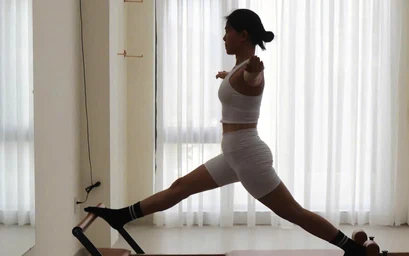
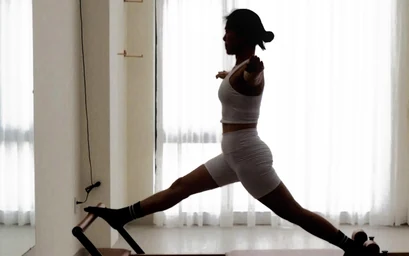
feat(photography): grade mới sau hai mươi vòng thử, và mép ảnh tan vào trang

diff --git a/src_FE/app/ui/art-directed-image.tsx b/src_FE/app/ui/art-directed-image.tsx
@@ -9,18 +9,45 @@ import { cn } from "~/lib/cn";
  * stock photography than empty, the layout was leaning on the picture, and the
  * design would have been wrong (docs/REFERENCE_LOCK.md).
  */
+
+/**
+ * PHƯƠNG ÁN A — "Ánh sáng": mép ảnh tan vào trang.
+ *
+ * Nền của những khung này gần như trắng, và nền trang là `#f2f0ea` — cũng gần
+ * trắng. Cho hai mép tan ra thì cái hộp chữ nhật biến mất: thanh Cadillac đi
+ * thẳng ra khỏi trang, và người đứng trong trang chứ không đứng trong một ô.
+ *
+ * Làm bằng `mask-image` chứ không nung vào tệp ảnh: mask tan về TRONG SUỐT nên
+ * đúng trên mọi nền — khối `tone="deep"` và khối `tone="ink"` dùng chung một
+ * tệp ảnh mà không lộ vệt màu. Nung vào ảnh thì phải có một tệp cho mỗi nền.
+ *
+ * Thủ pháp này chỉ dùng được vì ảnh ngược sáng. Đừng mang sang một khung có
+ * hậu cảnh tối — ở đó nó sẽ đọc ra như một lỗi hiển thị.
+ */
+const FADE_STYLE = {
+  maskImage:
+    "linear-gradient(to bottom, transparent 0%, #000 22%), linear-gradient(to left, transparent 0%, #000 18%)",
+  WebkitMaskImage:
+    "linear-gradient(to bottom, transparent 0%, #000 22%), linear-gradient(to left, transparent 0%, #000 18%)",
+  maskComposite: "intersect",
+  WebkitMaskComposite: "source-in",
+} as const;
+
 export function ArtDirectedImage({
   photo,
   className,
   imgClassName,
   sizes,
   priority = false,
+  fade = false,
 }: {
   photo: PhotoId;
   className?: string;
   imgClassName?: string;
   sizes?: string;
   priority?: boolean;
+  /** Tan mép trên và mép ngoài vào nền trang. Chỉ cho ảnh ngược sáng. */
+  fade?: boolean;
 }) {
   const brief = PHOTOGRAPHY[photo];
 
@@ -34,6 +61,7 @@ export function ArtDirectedImage({
         loading={priority ? "eager" : "lazy"}
         decoding="async"
         fetchPriority={priority ? "high" : "auto"}
+        style={fade ? FADE_STYLE : undefined}
         className={cn("size-full object-cover", imgClassName, className)}
       />
     );

diff --git a/src_FE/app/content/photography.ts b/src_FE/app/content/photography.ts
@@ -61,8 +61,8 @@ export const PHOTOGRAPHY = {
     // draws the frame, the figure hangs inside it, the curtain wall lights it
     // from behind. A hero needs a geometry — the previous frame (studio-08) was
     // a room inventory with no subject at all.
-    src: "/photos/hero-748.webp",
-    srcSet: "/photos/hero-374.webp 374w, /photos/hero-748.webp 748w",
+    src: "/photos/hero-643.webp",
+    srcSet: "/photos/hero-321.webp 321w, /photos/hero-643.webp 643w",
     alt: "Học viên treo người trên khung Cadillac, ngược sáng trước tường rèm voan.",
     aspect: "4 / 5",
     typeRegion: null,

diff --git a/src_FE/app/routes/public/home.tsx b/src_FE/app/routes/public/home.tsx
@@ -80,6 +80,7 @@ function Hero() {
               <ArtDirectedImage
                 photo="hero"
                 priority
+                fade
                 sizes="(min-width: 768px) 45vw, 100vw"
               />
             </div>

diff --git a/docs/thiet-ke/anh-studio/dung-anh.py b/docs/thiet-ke/anh-studio/dung-anh.py
@@ -27,11 +27,12 @@ from __future__ import annotations
 
 import argparse
 import os
+import re
 import sys
 
 try:
     import numpy as np
-    from PIL import Image, ImageEnhance
+    from PIL import Image, ImageFilter
 except ImportError:  # pragma: no cover
     sys.exit("Cần Pillow và numpy: python3 -m pip install pillow numpy")
 
@@ -51,33 +52,131 @@ def _img(a: np.ndarray) -> Image.Image:
     return Image.fromarray((np.clip(a, 0, 1) * 255 + 0.5).astype(np.uint8))
 
 
-def grade(im: Image.Image, *, wb=99.0, bp=0.5, floor=0.035, k=0.22, sat=0.96) -> Image.Image:
-    """Bốn bước, theo thứ tự này.
+def _lum(a: np.ndarray) -> np.ndarray:
+    return (a * np.array([0.2126, 0.7152, 0.0722])).sum(axis=2, keepdims=True)
 
-    1. Cân trắng theo rèm. Rèm voan ngược sáng là vật trắng duy nhất chắc chắn
-       có trong khung; ghim nó về trung tính là cách bỏ ám xanh lá mà không phải
-       đoán nhiệt độ màu.
-    2. Neo điểm đen. Ảnh gốc không có điểm đen — vùng tối dừng ở xám nhạt, nên
-       mặt nào cũng đục. `floor` > 0 để bóng vẫn mở: bết đen là kiểu "cinematic"
-       rẻ tiền, và nó giết luôn nếp rèm.
-    3. S-curve nhẹ quanh trung gian, không đụng hai đầu, nên highlight của rèm
-       không bị chặn thành mảng trắng phẳng.
-    4. Ngả bóng về sắc cát. Nền trang là #f2f0ea; ảnh lạnh hơn nền thì luôn
-       trông như dán vào chứ không thuộc về trang.
 
-    Tham số để mở cho từng khung, không phải để dùng chung: `wb` phải hạ xuống
-    ở khung 20 vì rèm ở đó đã ngả ấm sẵn, lấy percentile 99 sẽ đẩy cả ảnh sang
-    vàng. Một bộ số cho cả bộ ảnh là định nghĩa của "phủ filter".
+def grade(
+    im: Image.Image,
+    *,
+    wb=0.70,
+    denoise=(1.1, 4.0, 0.70),
+    floor=0.018,
+    contrast=0.28,
+    sat=0.90,
+    volume=(80, 0.24),
+    bloom=0.10,
+    warm_bg=(0.64, 0.85),
+    sweep=(0.72, 0.70, 0.80),
+    grain=0.011,
+    tone=0.0,
+) -> Image.Image:
+    """Chín bước, theo đúng thứ tự này. Mỗi bước sửa một khuyết tật cụ thể của
+    bộ ảnh gốc, và thứ tự không đổi được: làm mịn phải đứng TRƯỚC mọi phép tăng
+    tương phản, nếu không tương phản sẽ nhân vân nén lên trước khi bị dập.
+
+    Các con số dưới đây tìm ra bằng cách thử — chừng hai mươi vòng đối chiếu
+    trên khung studio-13, xem ở đúng kích thước sẽ hiển thị trên trang chứ
+    không xem phóng to. Ghi lại ở đây để lần sau khỏi dò lại từ đầu.
     """
     a = _arr(im)
-    ref = np.percentile(a.reshape(-1, 3), wb, axis=0)
-    a = a * (ref.mean() / np.maximum(ref, 1e-4))
-    lo = np.percentile(a, bp)
+
+    # 1. Cân trắng MỘT PHẦN theo rèm (percentile 99 là vật trắng chắc chắn có
+    #    trong khung). Cân đủ 100% thì hết ám xanh lá nhưng da chuyển cam;
+    #    0.70 là chỗ vừa bỏ được ám vừa giữ da đúng.
+    ref = np.percentile(a.reshape(-1, 3), 99.0, axis=0)
+    a = a * (1 + (ref.mean() / np.maximum(ref, 1e-4) - 1) * wb)
+
+    # 2. Dập vân nén ở trung gian — tức là ở da. Tệp gốc đi qua Zalo nên có vân;
+    #    không dập trước thì bước 5 và 6 sẽ biến vân thành vệt loang trên tay.
+    if denoise:
+        lr, cr, amt = denoise
+        yy, cb, cr_ = im.convert("YCbCr").split() if False else _img(a).convert("YCbCr").split()
+        soft = _arr(Image.merge("YCbCr", (
+            yy.filter(ImageFilter.GaussianBlur(lr)),
+            cb.filter(ImageFilter.GaussianBlur(cr)),
+            cr_.filter(ImageFilter.GaussianBlur(cr)),
+        )).convert("RGB"))
+        l = _lum(a)
+        m = np.clip((l - 0.18) / 0.68, 0, 1)
+        m = (np.sin((m - 0.5) * np.pi) * 0.5 + 0.5) * amt
+        a = np.clip(a * (1 - m) + soft * m, 0, 1)
+
+    # 3. Neo điểm đen. Ảnh gốc không có điểm đen — vùng tối dừng ở xám nhạt nên
+    #    mặt nào cũng đục. floor > 0 để bóng vẫn mở.
+    lo = np.percentile(a, 0.5)
     a = floor + (1 - floor) * np.clip((a - lo) / max(1e-4, 1 - lo), 0, 1)
-    a = np.clip(a + k * (a - 0.5) * (1 - np.abs(a - 0.5) * 2), 0, 1)
-    lum = a.mean(axis=2, keepdims=True)
-    a = np.clip(a * (1 + (SAND_HUE - 1) * (0.9 * (1 - lum) ** 2 + 0.24 * lum**3)), 0, 1)
-    return ImageEnhance.Color(_img(a)).enhance(sat)
+
+    # 4. Nén mềm phần trên 0.70, nhưng 1.0 vẫn ra 1.0 — giãn khoảng sáng để nếp
+    #    rèm không dồn thành một mảng phẳng.
+    x = a.copy(); m = x > 0.70
+    t = (x[m] - 0.70) / 0.30
+    x[m] = 0.70 + 0.30 * np.tanh(t * 1.7) / np.tanh(1.7)
+    a = np.clip(x, 0, 1)
+
+    # 5. S-curve quanh trung gian, không đụng hai đầu.
+    a = np.clip(a + contrast * (a - 0.5) * (1 - np.abs(a - 0.5) * 2), 0, 1)
+
+    # 6. Ngả bóng về sắc cát (tone=0 là tắt). Nền trang là #f2f0ea; ảnh lạnh hơn
+    #    nền thì luôn trông như dán vào. Sau khi đã cân trắng một phần thì
+    #    thường không cần thêm nữa, nên mặc định tắt.
+    if tone:
+        l = _lum(a)
+        a = np.clip(a * (1 + (SAND_HUE - 1) * (tone * (1 - l) ** 2 + 0.24 * l ** 3)), 0, 1)
+
+    # 7. Hạ bão hoà nhẹ. Đệm vinyl và tường bạc hà trong phòng này quá tươi so
+    #    với bảng màu cát/mực.
+    l = _lum(a); a = np.clip(l + (a - l) * sat, 0, 1)
+
+    # 8. Tương phản cục bộ BÁN KÍNH LỚN, chỉ trên độ sáng, chừa vùng sáng.
+    #    Bán kính nhỏ (kiểu "clarity") tạo viền quanh cánh tay trên nền rèm
+    #    trắng — đó là vệt HDR và nó trông rẻ. Bán kính lớn thêm khối mà không
+    #    để lại viền.
+    if volume:
+        r, amt = volume
+        l = _lum(a)
+        lb = np.asarray(_img(np.repeat(l, 3, axis=2)).filter(ImageFilter.GaussianBlur(r)),
+                        dtype=np.float32)[:, :, :1] / 255.0
+        w = np.clip((0.78 - l) / 0.78, 0, 1) ** 0.6
+        a = np.clip(a + (l - lb) * amt * w, 0, 1)
+
+    # 9. Loang sáng nhẹ quanh vùng chói — thứ làm ảnh ngược sáng đọc ra như
+    #    chụp phim chứ không như chụp điện thoại. Quá tay thì ảnh mờ như sương.
+    if bloom:
+        l = _lum(a)
+        mask = np.clip((l - 0.80) / 0.20, 0, 1)
+        gl = _arr(_img(np.repeat(mask, 3, axis=2)).filter(ImageFilter.GaussianBlur(26)))
+        a = np.clip(1 - (1 - a) * (1 - gl * bloom), 0, 1)
+
+    # 10. Rút màu ở những mảng SÁNG và NGẢ VÀNG. Tường rèm không đồng màu: có
+    #     một dải bắt nắng ngả be nằm giữa những dải trắng và nó đọc ra như vệt
+    #     ố. Ngưỡng đặt trên da nên da không bị đụng.
+    if warm_bg:
+        th, amt = warm_bg
+        l = _lum(a); mx = a.max(axis=2, keepdims=True); mn = a.min(axis=2, keepdims=True)
+        s = (mx - mn) / np.maximum(mx, 1e-4)
+        warm = np.clip((a[..., 0:1] - a[..., 2:3]) / np.maximum(mx, 1e-4) * 6, 0, 1)
+        m = np.clip((l - th) / max(1e-4, 1 - th), 0, 1) * warm * np.clip(s * 4, 0, 1) * amt
+        a = np.clip(a + (l - a) * m, 0, 1)
+
+    # 11. Làm sạch hậu cảnh: vùng đã sáng thì đẩy về trắng và rút màu. Rèm voan
+    #     trong ảnh gốc không trắng — nó có mảng be, mảng xám xanh và vệt nén.
+    if sweep:
+        th, push, desat = sweep
+        l = _lum(a)
+        m = np.clip((l - th) / 0.18, 0, 1); m = m * m * (3 - 2 * m)
+        a = a * (1 - desat * m) + (l * np.ones_like(a)) * (desat * m)
+        a = np.clip(a + (1 - a) * m * push, 0, 1)
+
+    # 12. Hạt. Vừa che vân nén còn sót, vừa chặn hiện tượng dải màu (banding)
+    #     trên mảng rèm lớn sau khi WebP nén lần nữa.
+    if grain:
+        rng = np.random.default_rng(7)
+        n = rng.normal(0, 1, a.shape[:2]).astype(np.float32)
+        w = (1 - np.abs(_lum(a)[..., 0] - 0.5) * 2) ** 0.7
+        a = np.clip(a + (n * w * grain)[..., None], 0, 1)
+
+    return _img(a)
 
 
 class Cut:
@@ -117,11 +216,15 @@ class Cut:
 # đã đúng thì thứ duy nhất còn phải làm là cho nó chỗ thở.
 A = {
     "hero": Cut(
-        "13", (0.25, 0.00, 0.90, 0.93), 4 / 5, [374, 748],
+        "13", (0.20, 0.00, 0.83, 0.80), 4 / 5, [321, 643],
         why="Cả người lẫn kiến trúc trong một khung: lồng thép của Cadillac dựng "
             "khung hình, người treo trong đó, rèm sáng phía sau. Hero cần một "
             "hình học, không cần một danh mục thiết bị.",
-        drops="Sàn gạch ở đáy, mảng tường thừa bên trái.",
+        drops="Sàn gạch VÀ dải diềm trắng dưới chân bàn. Khung dừng ở thân bàn, "
+              "nên đáy là một đường ngang sạch.\n"
+              "Giá: chiều cao cắt đi kéo bề rộng xuống còn 643px — vừa đủ 1:1 ở "
+              "màn hình thường, hơi mềm trên retina. Đây là trần của bộ ảnh gốc "
+              "(1280px cạnh dài), không phải của khung cắt.",
     ),
     "method": Cut(
         "12", (0.00, 0.00, 1.00, 0.97), 4 / 5, [377, 754],
@@ -134,7 +237,7 @@ A = {
         why="Thiết bị đứng một mình trước rèm sáng: gỗ, đệm, thang. Đây là ô "
             "'vật liệu thật' — nó cần một vật, không cần một căn phòng.",
         drops="Viên watermark 'J PILATES' ở đáy, phần lớn sàn.",
-        wb=97.0,
+        wb=0.55,
     ),
     "practice": Cut(
         "15", (0.04, 0.16, 0.68, 0.80), 16 / 10, [409, 819],
@@ -154,6 +257,25 @@ A = {
 OPTIONS = {"a": A}
 
 
+def kiem_tra_khop() -> int:
+    """Mọi đường dẫn ảnh trong `photography.ts` phải trỏ vào một tệp có thật.
+
+    Đổi khung cắt thì bề rộng tệp đổi theo, và rất dễ quên sửa `srcSet`. Lần
+    trước quên đúng một dòng và ô hero trên trang chủ hiện ra chữ alt.
+    """
+    brief = os.path.join(ROOT, "src_FE", "app", "content", "photography.ts")
+    if not os.path.exists(brief):
+        return 0
+    want = set(re.findall(r"/photos/([a-z]+-\d+\.webp)", open(brief, encoding="utf-8").read()))
+    have = set(os.listdir(DEST)) if os.path.isdir(DEST) else set()
+    missing, extra = sorted(want - have), sorted(have - want)
+    for m in missing:
+        print(f"  THIẾU  {m} — photography.ts trỏ vào nhưng không có tệp", file=sys.stderr)
+    for e in extra:
+        print(f"  THỪA   {e} — có tệp nhưng không ai dùng", file=sys.stderr)
+    return 1 if missing else 0
+
+
 def main() -> int:
     ap = argparse.ArgumentParser(description=__doc__)
     ap.add_argument("--phuong-an", default="a", choices=sorted(OPTIONS))
@@ -162,7 +284,7 @@ def main() -> int:
     for slot, cut in OPTIONS[args.phuong_an].items():
         im = cut.render(slot)
         print(f"{slot:9} ← studio-{cut.frame}  {im.size[0]}x{im.size[1]}  ({', '.join(map(str, cut.widths))})")
-    return 0
+    return kiem_tra_khop()
 
 
 if __name__ == "__main__":
